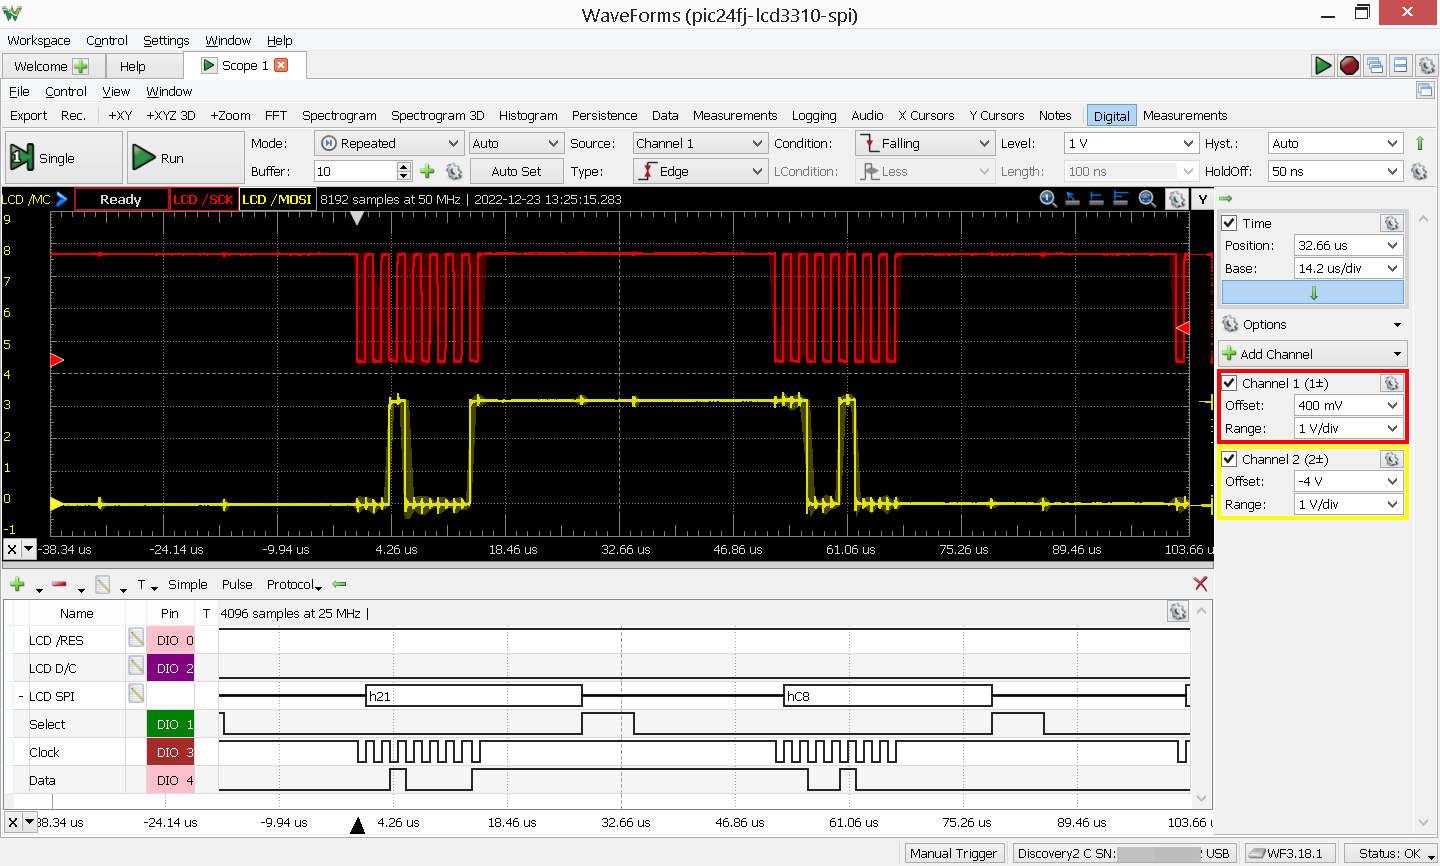
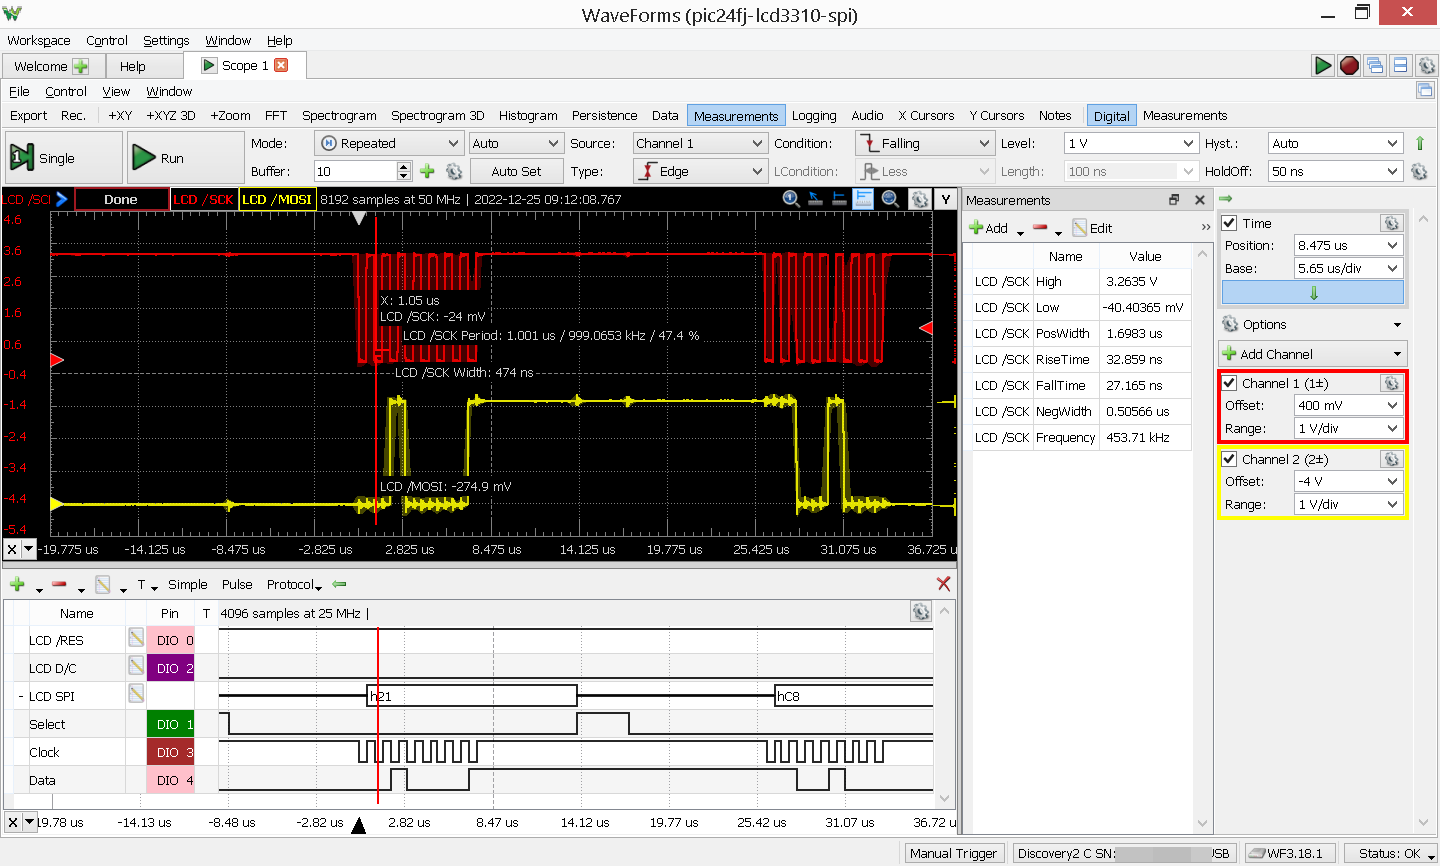
Doubled fcy to 4 MHz, /SCK to 1 MHz, fixed FCY define

diff --git a/pic24fj-lcd3310.X/main.c b/pic24fj-lcd3310.X/main.c
@@ -21,12 +21,11 @@
  
     Clock:
     - f_RC = 8 MHz (fixed)
-    - f_RCDIV = f_RC / 2 = 4 MHz
-    - f_CPU   = f_RCDIV / 2 = 2 MHz
+    - f_CPU   = f_RC / 2 = 4 MHz
   
     Used PINs:
     - RA0/PIN2 - on-board red LED blinking at 5 Hz
-    - RA3/CLKO/PIN10 - instruction clock output - f_cy =  2 MHz
+    - RA3/CLKO/PIN10 - instruction clock output - f_cy =  4 MHz
     LCD display connections:
     - PIC socket               LCD pin
     - RB7/SPI1:SCK1OUT/PIN16   SCK/PIN9  - SPI1 SCK (clock output)
@@ -78,10 +77,10 @@
     TERMS.
 */
 
-const char *BUILD_VER = "v0.09";
+const char *BUILD_VER = "v0.10";
 
 // for __delay_us())
-#define FCY 1000000UL 
+#define FCY 4000000UL 
 #include "mcc_generated_files/mcc.h"
 #include <libpic30.h>  // __delay_us())
 
@@ -394,7 +393,7 @@ int main(void)
                 LCDSend( ROLL_BUFFER[ (x+ofs) % ((u8)sizeof(ROLL_BUFFER)) ],
                         SEND_DATA);
             }
-            __delay_ms(200);
+            __delay_ms(100);
         }
     }
 

diff --git a/pic24fj-lcd3310.X/mcc_generated_files/system.c b/pic24fj-lcd3310.X/mcc_generated_files/system.c
@@ -65,7 +65,7 @@
 #pragma config IOL1WAY = ON    //IOLOCK One-Way Set Enable->Once set, the IOLOCK bit cannot be cleared
 #pragma config OSCIOFNC = OFF    //OSCO Pin Configuration->OSCO pin functions as clock output (CLKO)
 #pragma config FCKSM = CSDCMD    //Clock Switching and Fail-Safe Clock Monitor->Sw Disabled, Mon Disabled
-#pragma config FNOSC = FRCDIV    //Initial Oscillator Select->Fast RC Oscillator with Postscaler (FRCDIV)
+#pragma config FNOSC = FRC    //Initial Oscillator Select->Fast RC Oscillator (FRC)
 #pragma config PLL96MHZ = ON    //96MHz PLL Startup Select->96 MHz PLL Startup is enabled automatically on start-up
 #pragma config PLLDIV = DIV12    //USB 96 MHz PLL Prescaler Select->Oscillator input divided by 12 (48 MHz input)
 #pragma config IESO = OFF    //Internal External Switchover->IESO mode (Two-Speed Start-up) disabled

diff --git a/pic24fj-lcd3310.X/mcc_generated_files/clock.c b/pic24fj-lcd3310.X/mcc_generated_files/clock.c
@@ -62,7 +62,7 @@ void CLOCK_Initialize(void)
     PMD3 = 0x00;
     // UPWMMD enabled; USB1MD enabled; CTMUMD enabled; REFOMD enabled; LVDMD enabled; 
     PMD4 = 0x00;
-    // CF no clock failure; NOSC FRCDIV; SOSCEN disabled; POSCEN disabled; CLKLOCK unlocked; OSWEN Switch is Complete; IOLOCK not-active; 
-    __builtin_write_OSCCONH((uint8_t) (0x07));
+    // CF no clock failure; NOSC FRC; SOSCEN disabled; POSCEN disabled; CLKLOCK unlocked; OSWEN Switch is Complete; IOLOCK not-active; 
+    __builtin_write_OSCCONH((uint8_t) (0x00));
     __builtin_write_OSCCONL((uint8_t) (0x00));
 }

diff --git a/pic24fj-lcd3310.X/mcc_generated_files/pin_manager.c b/pic24fj-lcd3310.X/mcc_generated_files/pin_manager.c
@@ -92,9 +92,9 @@ void PIN_MANAGER_Initialize (void)
      ***************************************************************************/
     __builtin_write_OSCCONL(OSCCON & 0xbf); // unlock PPS
 
+    RPOR3bits.RP7R = 0x0008;    //RB7->SPI1:SCK1OUT
     RPOR4bits.RP9R = 0x0007;    //RB9->SPI1:SDO1
     RPINR20bits.SDI1R = 0x0008;    //RB8->SPI1:SDI1
-    RPOR3bits.RP7R = 0x0008;    //RB7->SPI1:SCK1OUT
 
     __builtin_write_OSCCONL(OSCCON | 0x40); // lock PPS
 }

diff --git a/pic24fj-lcd3310.X/mcc_generated_files/tmr1.c b/pic24fj-lcd3310.X/mcc_generated_files/tmr1.c
@@ -92,8 +92,8 @@ void TMR1_Initialize (void)
 {
     //TMR1 0; 
     TMR1 = 0x00;
-    //Period = 0.099968 s; Frequency = 2000000 Hz; PR1 780; 
-    PR1 = 0x30C;
+    //Period = 0.100032 s; Frequency = 4000000 Hz; PR1 1562; 
+    PR1 = 0x61A;
     //TCKPS 1:256; TON enabled; TSIDL disabled; TCS FOSC/2; TSYNC disabled; TGATE disabled; 
     T1CON = 0x8030;
 

diff --git a/pic24fj-lcd3310.X/mcc_generated_files/clock.h b/pic24fj-lcd3310.X/mcc_generated_files/clock.h
@@ -52,10 +52,10 @@
 #include <stdbool.h>
 
 #ifndef _XTAL_FREQ
-#define _XTAL_FREQ  4000000UL
+#define _XTAL_FREQ  8000000UL
 #endif
 
-#define CLOCK_SystemFrequencyGet()        (4000000UL)
+#define CLOCK_SystemFrequencyGet()        (8000000UL)
 
 #define CLOCK_PeripheralFrequencyGet()    (CLOCK_SystemFrequencyGet() / 2)
 

diff --git a/pic24fj-lcd3310.X/mcc_generated_files/system.h b/pic24fj-lcd3310.X/mcc_generated_files/system.h
@@ -43,7 +43,7 @@
 */
 
 #ifndef _XTAL_FREQ
-#define _XTAL_FREQ  4000000UL
+#define _XTAL_FREQ  8000000UL
 #endif
 
 #include "xc.h"

diff --git a/README.md b/README.md
@@ -13,7 +13,8 @@ Controlling OLIMEX LCD3310 (SPI) - display from Nokia 3310 phones(???)
 
 Project folder: [pic24fj-lcd3310.X/](pic24fj-lcd3310.X/)
 Status:
-- displays `xHello, world!EF>` on every line of LCD
+- displays `xBUILD_DATEvBUILD_VERSION` on 1st line
+- displays `xHello, world!EF>` on every line of LCD but first and last
 - and then starts rolling text (called marquee in HTML) `Hello!` on last line.
 - NOTE: in my case that rolling textline is noticeably smeared - I don't know why (CPU collision?)...
 
